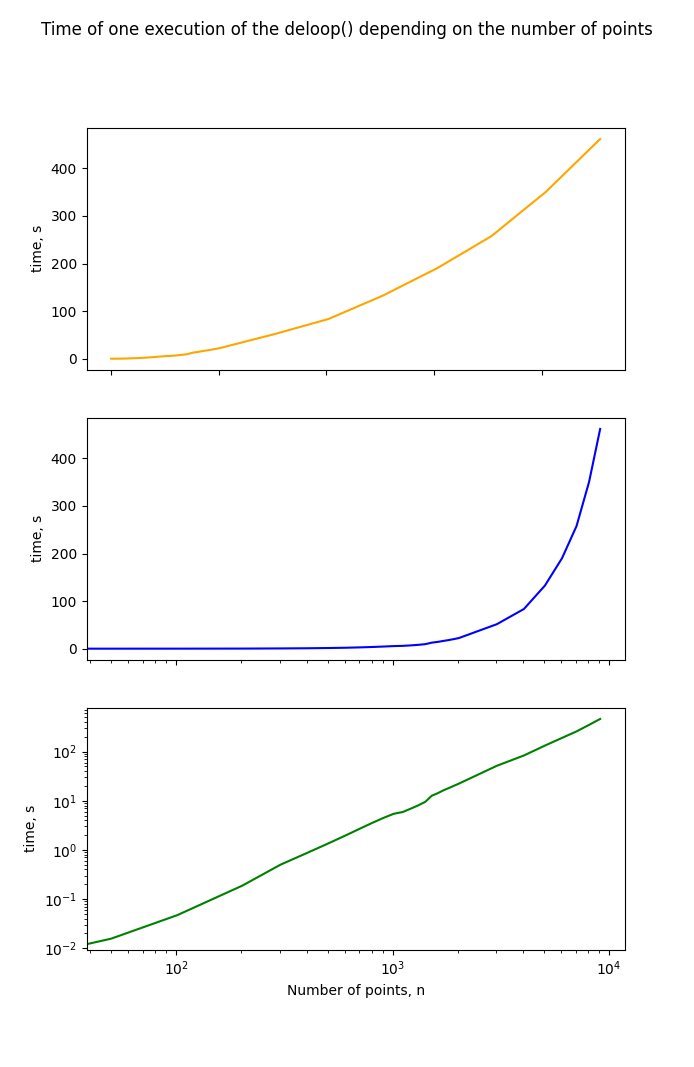
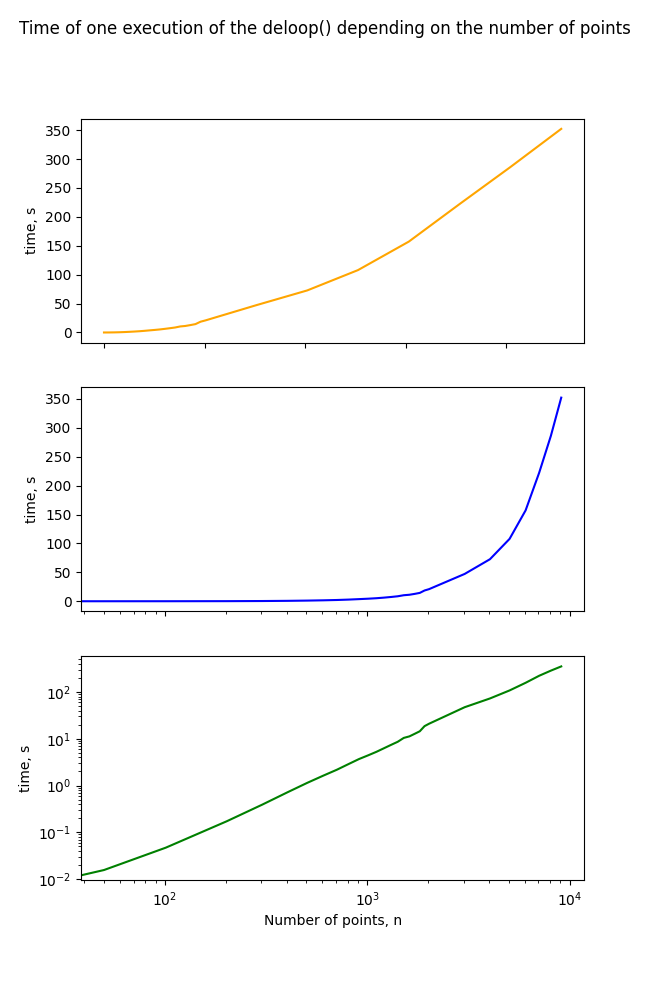
Optimized deloop() function: - changed limits of the cycles for - the check array is no longer used - meshgrid function removed - now referring to coordinates x and y through .self
changes in main.py:
the running time of the program is now displayed in any case

changes in timming.py and timming.png:
new data due to optimization of the deloop function (work is noticeably faster)

in other files, the change is associated with a change in the deloop() function call

diff --git a/minitopsim/surface.py b/minitopsim/surface.py
@@ -3,9 +3,11 @@ Module containing the class Surface.
 """
 import numpy as np
 
+
 class Shadow_Error(Exception):
     """Error during Shadow calculation in Surface Class"""
     pass
+
 
 class Surface:
     """
@@ -94,7 +96,7 @@ class Surface:
                     raise Shadow_Error(msg)
                 for j in range(i-1, -1, -1):
                     if self.x[j] == x:
-                        interp_y = self.y[j]    #no interpolation needed
+                        interp_y = self.y[j]    # no interpolation needed
                         break
                     elif self.x[j] < x < self.x[j+1]:
                         xp = self.x[j:j+2]
@@ -106,7 +108,7 @@ class Surface:
                         yp = self.y[j+1:j-1:-1]
                         interp_y = np.interp(x, xp, yp)
                         break
-                #potentially shadowed point
+                # potentially shadowed point
                 shadows_mask[i] = (y <= interp_y)
 
         for i, (x, y) in reversed(list(enumerate(zip(self.x[:-1],
@@ -117,7 +119,7 @@ class Surface:
                     raise Shadow_Error(msg)
                 for j in range(i+1, self.x.size):
                     if self.x[j] == x:
-                        interp_y = self.y[j]    #no interpolation needed
+                        interp_y = self.y[j]    # no interpolation needed
                         break
                     elif self.x[j-1] < x < self.x[j]:
                         xp = self.x[j-1:j+1]
@@ -129,7 +131,7 @@ class Surface:
                         yp = self.y[j:j-2:-1]
                         interp_y = np.interp(x, xp, yp)
                         break
-                #potentially shadowed point
+                # potentially shadowed point
                 shadows_mask[i] = shadows_mask[i] or (y <= interp_y)
 
         return shadows_mask
@@ -146,7 +148,7 @@ class Surface:
         self.x = xnew
         self.y = ynew
 
-    def deloop(self, x, y):
+    def deloop(self):
         """
         Calculates a new sequence of point coordinates by eliminating loops.
 
@@ -155,6 +157,8 @@ class Surface:
             y_delooped (array(float)): The y-coordinates of the points without loops.
 
         """
+        x = self.x
+        y = self.y
         x_local = x.tolist()
         y_local = y.tolist()
         k = 0
@@ -162,30 +166,23 @@ class Surface:
         y_delooped = []
         dx = np.diff(x)
         dy = np.diff(y)
-        xi, xj = np.meshgrid(x, x)
-        yi, yj = np.meshgrid(y, y)
-        dxi, dxj = np.meshgrid(dx, dx)
-        dyi, dyj = np.meshgrid(dy, dy)
-        shape = (dx.size, dx.size, 2)
-        check = np.full(shape, 2.)
 
-        for i in range(dx.size):
-            for j in range(dx.size):
-                if (i < j - 1):
-                    a = [[dxi[i, j], -dxj[i, j]], [dyi[i, j], -dyj[i, j]]]
-                    b = [xj[i, j] - xi[i, j], yj[i, j] - yi[i, j]]         # create coefficient arrays
-                    try:
-                        check[i, j] = np.linalg.solve(a, b)      # trying to solve system of equations
-                    except:
-                        check[i, j] = [2, 2]
-                    if ((check[i, j, 0] >= 0) & (check[i, j, 0] < 1) &
-                            (check[i, j, 1] >= 0) & (check[i, j, 1] < 1)):    # finding intersections
-                        t = check[i, j, 0]
-                        x_neu = x[j] + dx[j] * t
-                        y_neu = y[j] + dy[j] * t
-                        x_delooped = x_delooped + x_local[k: i + 1] + [x_neu]
-                        y_delooped = y_delooped + y_local[k: i + 1] + [y_neu]
-                        k = j + 1
+        for i in range(dx.size-2):
+            for j in range(i+2, dx.size):
+                a = [[dx[j], -dx[i]], [dy[j], -dy[i]]]
+                b = [x[i] - x[j], y[i] - y[j]]              # create coefficient arrays
+                try:
+                    check_t, check_k = np.linalg.solve(a, b)      # trying to solve system of equations
+                except np.linalg.LinAlgError:
+                    check_t, check_k = [2, 2]
+                if ((check_t >= 0) & (check_t < 1) &
+                        (check_k >= 0) & (check_k < 1)):    # finding intersections
+                    t = check_t
+                    x_neu = x[j] + dx[j] * t
+                    y_neu = y[j] + dy[j] * t
+                    x_delooped = x_delooped + x_local[k: i + 1] + [x_neu]
+                    y_delooped = y_delooped + y_local[k: i + 1] + [y_neu]
+                    k = j + 1
 
         x_delooped = x_delooped + x_local[k:dx.size + 1]
         y_delooped = y_delooped + y_local[k:dy.size + 1]

diff --git a/minitopsim/main.py b/minitopsim/main.py
@@ -10,6 +10,7 @@ from time import process_time
 
 import sys
 
+
 def minitopsim():
     par.load_parameters(sys.argv[1])
 
@@ -25,8 +26,9 @@ def minitopsim():
     if not write_surface(surface, 0, filename + '.srf'):
         exit()
 
+    t_start = process_time()
+
     try:
-        t_start = process_time()
         while dt > 0:
             surface, dt = advance(surface, dt)
             time += dt
@@ -34,13 +36,14 @@ def minitopsim():
                 exit()
             print(f'time = {time}, dt = {dt}')
             dt = timestep(par.TIME_STEP, time, tend)
-        t_stop = process_time()
-        print("Calculation time:", t_stop - t_start, "s")
     except Shadow_Error as err_msg:
         print(f"A Shadow_Error occurred: {err_msg}")
         print(f"Simulation was stopped at {time}s.")
         print(f"Please change xmin/xmax parameters and try again.")
     finally:
+        t_stop = process_time()
+        print("Calculation time:", t_stop - t_start, "s")
+
         if par.PLOT_SURFACE:
             plot(filename + '.srf')
 

diff --git a/work/Aufgabe5_delooping/timing.py b/work/Aufgabe5_delooping/timing.py
@@ -6,9 +6,9 @@ if __name__ == '__main__':
     # hard coded date
     n = np.array([0, 50, 101, 202, 303, 404, 505, 606, 707, 808, 909, 1010, 1111, 1212, 1313, 1414, 1515, 1616, 1717,
                   1818, 1919, 2020, 3030, 4040, 5050, 6060, 7070, 8080, 9090])
-    time = np.array([0, 0.0156, 0.0469, 0.1875, 0.5, 0.875, 1.3593, 1.96875, 2.71875, 3.578125, 4.5, 5.421875, 5.890625,
-                     6.90625, 8.0625, 9.5, 12.65625, 14.265625, 16.34375, 18.140625, 20.1875, 22.265625, 51.5156,
-                     83.453125, 132.59, 190.2343, 257.75, 350.625, 461.75])
+    time = np.array([0, 0.0156, 0.0469, 0.1719, 0.391, 0.719, 1.14, 1.625, 2.1719, 2.875, 3.6719, 4.421875, 5.265625,
+                     6.296875, 7.4219, 8.61, 10.4219, 11.25, 12.78125, 14.453125, 18.61, 20.953125, 47.265625,
+                     72.71875, 107.91, 157.171875, 222.17, 286.17, 352.17])
 
     # plotting
     fig, axs = plt.subplots(3)

diff --git a/work/Aufgabe5_delooping/test_deloop.py b/work/Aufgabe5_delooping/test_deloop.py
@@ -34,10 +34,8 @@ def test_deloop(set_surface1, set_surface2):
         set_surface2(fixture): to init a surface2
     """
     # get test data
-    x1, y1 = set_surface1.x, set_surface1.y
-    delooped_x1, delooped_y1 = set_surface1.deloop(x1, y1)
-    x2, y2 = set_surface2.x, set_surface2.y
-    delooped_x2, delooped_y2 = set_surface1.deloop(x2, y2)
+    delooped_x1, delooped_y1 = set_surface1.deloop()
+    delooped_x2, delooped_y2 = set_surface2.deloop()
 
     # define reference data
     delooped_y_muster1 = np.array([2, 1.3333, 0, 0, 1.3333, 2])

diff --git a/work/Aufgabe5_delooping/check_deloop.py b/work/Aufgabe5_delooping/check_deloop.py
@@ -14,10 +14,10 @@ if __name__ == '__main__':
 
     # surfaces without loops
     surface1 = Surface(x_loops_1, y_loops_1)
-    x_delooped_1, y_delooped_1 = surface1.deloop(x_loops_1, y_loops_1)
+    x_delooped_1, y_delooped_1 = surface1.deloop()
 
     surface2 = Surface(x_loops_2, y_loops_2)
-    x_delooped_2, y_delooped_2 = surface2.deloop(x_loops_2, y_loops_2)
+    x_delooped_2, y_delooped_2 = surface2.deloop()
 
     # plotting surfaces
     fig, axs = plt.subplots(2, 2, sharey=True)

diff --git a/minitopsim/advance.py b/minitopsim/advance.py
@@ -32,7 +32,9 @@ def advance(surface, dtime):
     x += velocity[0] * dtime
     y += velocity[1] * dtime
 
-    x, y = surface.deloop(x,y)
+    surface.x = np.copy(x)
+    surface.y = np.copy(y)
+    x, y = surface.deloop()
 
     new_surface = Surface(x, y)
 
